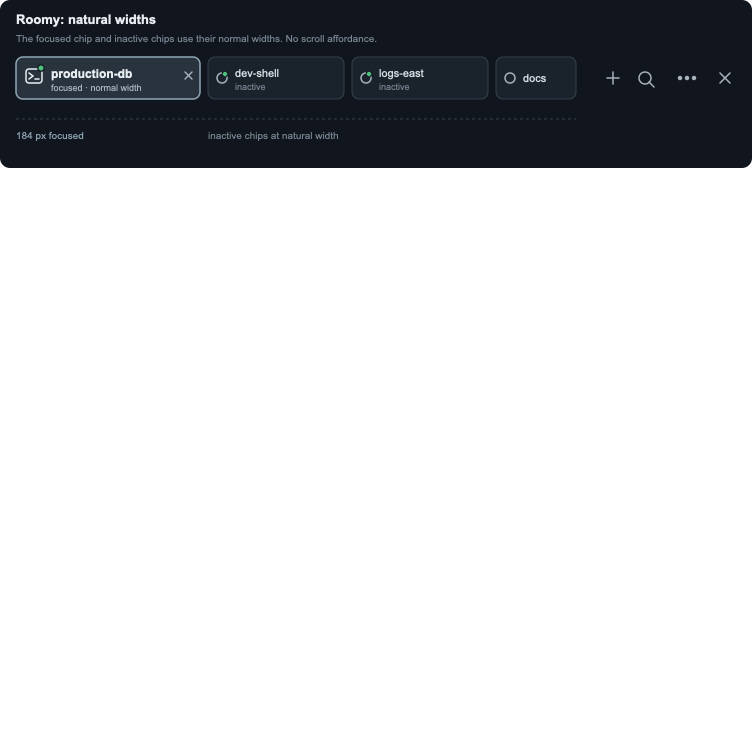
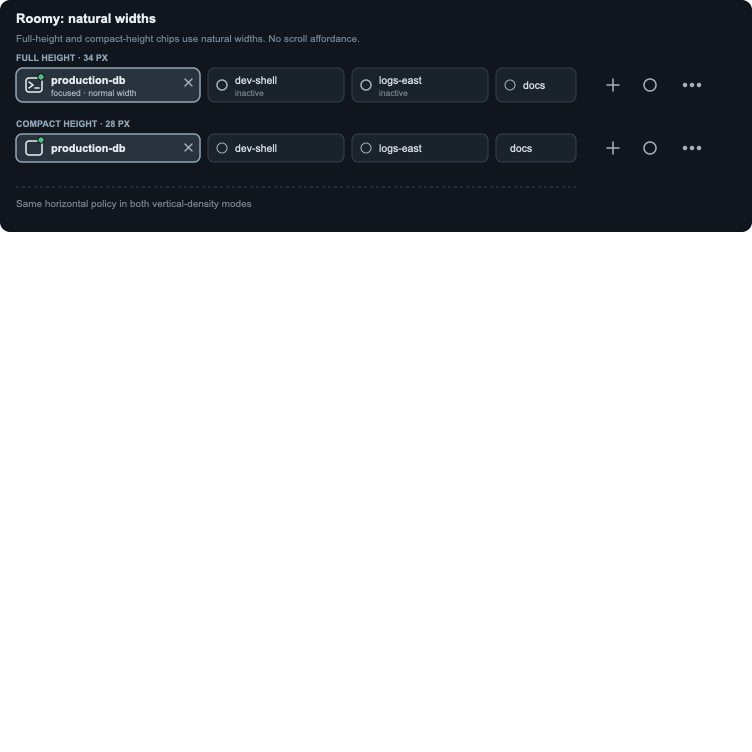
Show chip compaction at both vertical densities
Validation-Impact: none - clarifies existing CHIP-07 chip-overflow
documentation/mockups to match already-shipped focused-chip-first
compaction behavior; no new user-observable behavior, graph edge, or
ADR is introduced by this docs-only change.

diff --git a/docs/manual-validation.md b/docs/manual-validation.md
@@ -89,7 +89,7 @@ possible.
 | --- | --- | --- | --- |
 | AS-01 | Launch with no workspace; Launcher is the sole root surface, initial row focus is visible, keyboard navigation and Enter start the selected transport. | Native functional + visual | Yes: accessibility driver plus screenshot |
 | AS-02 | Open Launcher and Settings repeatedly; each remains a singleton, replaces its own stale instance, and never changes a live session's terminal geometry. | Native functional | Yes: semantic tree and grid-dimension probe |
-| AS-03 | At one fixed scale, resize a multi-session window through the three approved chip-row states at both vertical densities: natural widths, inactive-only compaction, and minimum-width overflow. Verify the focused chip remains at normal width; inactive chips shrink toward the 72 px floor before any scroll affordance appears; Search then Inspector collapse before the focused chip is compromised; scrolling starts only after inactive minimums, preserves compact widths, and keeps bottom outlines visible; first/middle/last activation expands and fully reveals the new focused chip while the old chip becomes compactable; closing sessions lets inactive chips grow back. Then reorder by drag and menu, rename by double-click, and confirm stable active identity. | Functional + visual + usability | Automate exact width budgets, focused-width invariance, overflow threshold, focus-switch reveal, and grow-back; retain native trackpad/drag feel and visual comparison to the three approved mockups for human review |
+| AS-03 | At one fixed scale, repeat in both full-height 34 px and compact-height 28 px modes while resizing a multi-session window through the three approved chip-row states: natural widths, inactive-only compaction, and minimum-width overflow. Verify the focused chip remains at normal width for the selected density; inactive chips shrink toward the 72 px floor before any scroll affordance appears; Search then Inspector collapse before the focused chip is compromised; scrolling starts only after inactive minimums, preserves compact widths, and keeps bottom outlines visible; first/middle/last activation expands and fully reveals the new focused chip while the old chip becomes compactable; closing sessions lets inactive chips grow back. Then reorder by drag and menu, rename by double-click, and confirm stable active identity. | Functional + visual + usability | Automate exact width budgets, focused-width invariance, overflow threshold, focus-switch reveal, and grow-back; retain native trackpad/drag feel and visual comparison to both density rows in all three approved mockups for human review |
 | AS-04 | Exercise every global shortcut from terminal, Vim, Emacs, palette, and application controls; application chords act once and ordinary terminal chords reach the TUI. | Native functional | Yes: controlled PTY byte oracle |
 | AS-05 | Close Launcher, Settings, exited, failed, and disconnected surfaces immediately; closing the final surface returns Launcher. | Functional | Yes |
 | AS-06 | With **Confirm before closing live sessions** on, close a live local/SSH session from chip, context menu, shortcut, palette, native menu, and overlay; each opens the same confirmation bound to the intended session. Turn it off and repeat; every route closes immediately through the same bounded policy. Restart and verify the chosen value persisted, then restore the default on value. | Native functional + usability | Yes; consequence wording and immediate-close expectation remain human review |

diff --git a/docs/gui-design.md b/docs/gui-design.md
@@ -815,7 +815,13 @@ fesTerm's independent-chip visual treatment. Optional wrapping remains
 available for users who value simultaneous session visibility more than
 terminal height.
 
-The single-row behavior has three visually distinct states:
+The single-row behavior has three visually distinct horizontal states.
+Each mockup shows the same state in both approved vertical densities:
+**full-height 34 px chips** with primary and secondary lines, and
+**compact-height 28 px chips** with one line. The horizontal allocation policy
+does not change when the vertical-density preference changes: the focused chip
+keeps its normal width for that density, inactive chips compact first, and
+scrolling remains the last resort.
 
 ![Roomy chip row: all chips at natural width](images/gui-mockups/chip-overflow-roomy.png)
 
@@ -833,6 +839,13 @@ it keeps its normal chip width, including its type icon, state badge, stable
 primary identity, and active-only Close control. Crowding is absorbed by
 inactive chips before scrolling is introduced; the focused chip does not join
 a uniform proportional shrink.
+
+This contract applies independently to both vertical-density modes. Full-height
+chips are 34 px tall and may show two lines. Compact-height chips are 28 px tall
+and show one line, with active detail relocated according to the compact-chrome
+rules. Density may change measured natural text width, but it must not change
+the allocation order, permit the focused chip to shrink, or enable scrolling
+before inactive chips reach minimum width.
 
 For each layout pass:
 
@@ -880,10 +893,11 @@ The following are non-conforming:
 - permanently caching a forced compact width as a chip's natural width; or
 - allowing a newly focused chip to remain clipped or compacted.
 
-Current implementation: `shrink_to_fit_single_row` provides the first
-compaction seam, but an equal proportional shrink of every chip is
-transitional and does **not** satisfy this target. Its width allocation must
-protect the focused chip and apply the shortage to inactive chips.
+Current implementation: `allocate_single_row_widths` (`crates/festerm-ui-egui/src/chrome.rs`)
+protects the focused chip's normal width and applies water-filling shortage
+distribution to inactive chips only, satisfying this contract; regression
+tests cover the natural-fit, inactive-only-compaction, minimum-width-scrolling,
+focus-change, and grow-back-after-close cases described above.
 
 The design remains usable with many sessions through:
 
@@ -934,8 +948,10 @@ Structural tests must drive exact row budgets and prove all of the following:
 - long or rapidly changing untrusted titles cannot alter the allocation order
   or overlap fixed chrome controls.
 
-Rendered review should compare the three states above at the same scale and
-verify that compaction is visible before any scroll affordance appears.
+Rendered review should compare the three states above at the same scale in
+both 34 px full-height and 28 px compact-height modes. In each density,
+compaction must be visibly established before any scroll affordance appears,
+and switching density must not change the focused-chip-first priority.
 
 ## Session Creation Workflow
 

diff --git a/docs/ui-test-plan.md b/docs/ui-test-plan.md
@@ -206,12 +206,14 @@ Chrome allocation tests cover the exact focused-chip-first threshold at both
 vertical densities: the focused chip retains natural width, inactive chips
 water-fill to the 72 px floor, optional controls collapse before scrolling,
 scrolling preserves compact widths and reveals a newly focused chip, and New
-Session has no empty reserved gap when scrolling is unnecessary. Separate
-geometry regressions keep compact titles and Close centered and ensure
-overflowing chips share the scroll-control baseline so terminal paint cannot
-erase their bottom outlines. These tests treat focused-chip preservation as a
-structural contract, not a screenshot-only preference: they assert that
-removing chips lets remaining widths return toward their natural
+Session has no empty reserved gap when scrolling is unnecessary. Run the same
+exact-budget matrix in both full-height 34 px/two-line and compact-height
+28 px/one-line modes; changing density must not change allocation priority.
+Separate geometry regressions keep compact titles and Close centered and
+ensure overflowing chips share the scroll-control baseline so terminal paint
+cannot erase their bottom outlines. These tests treat focused-chip
+preservation as a structural contract, not a screenshot-only preference: they
+assert that removing chips lets remaining widths return toward their natural
 measurements, and that a test which only proves a horizontal `ScrollArea`
 works is insufficient.
 
